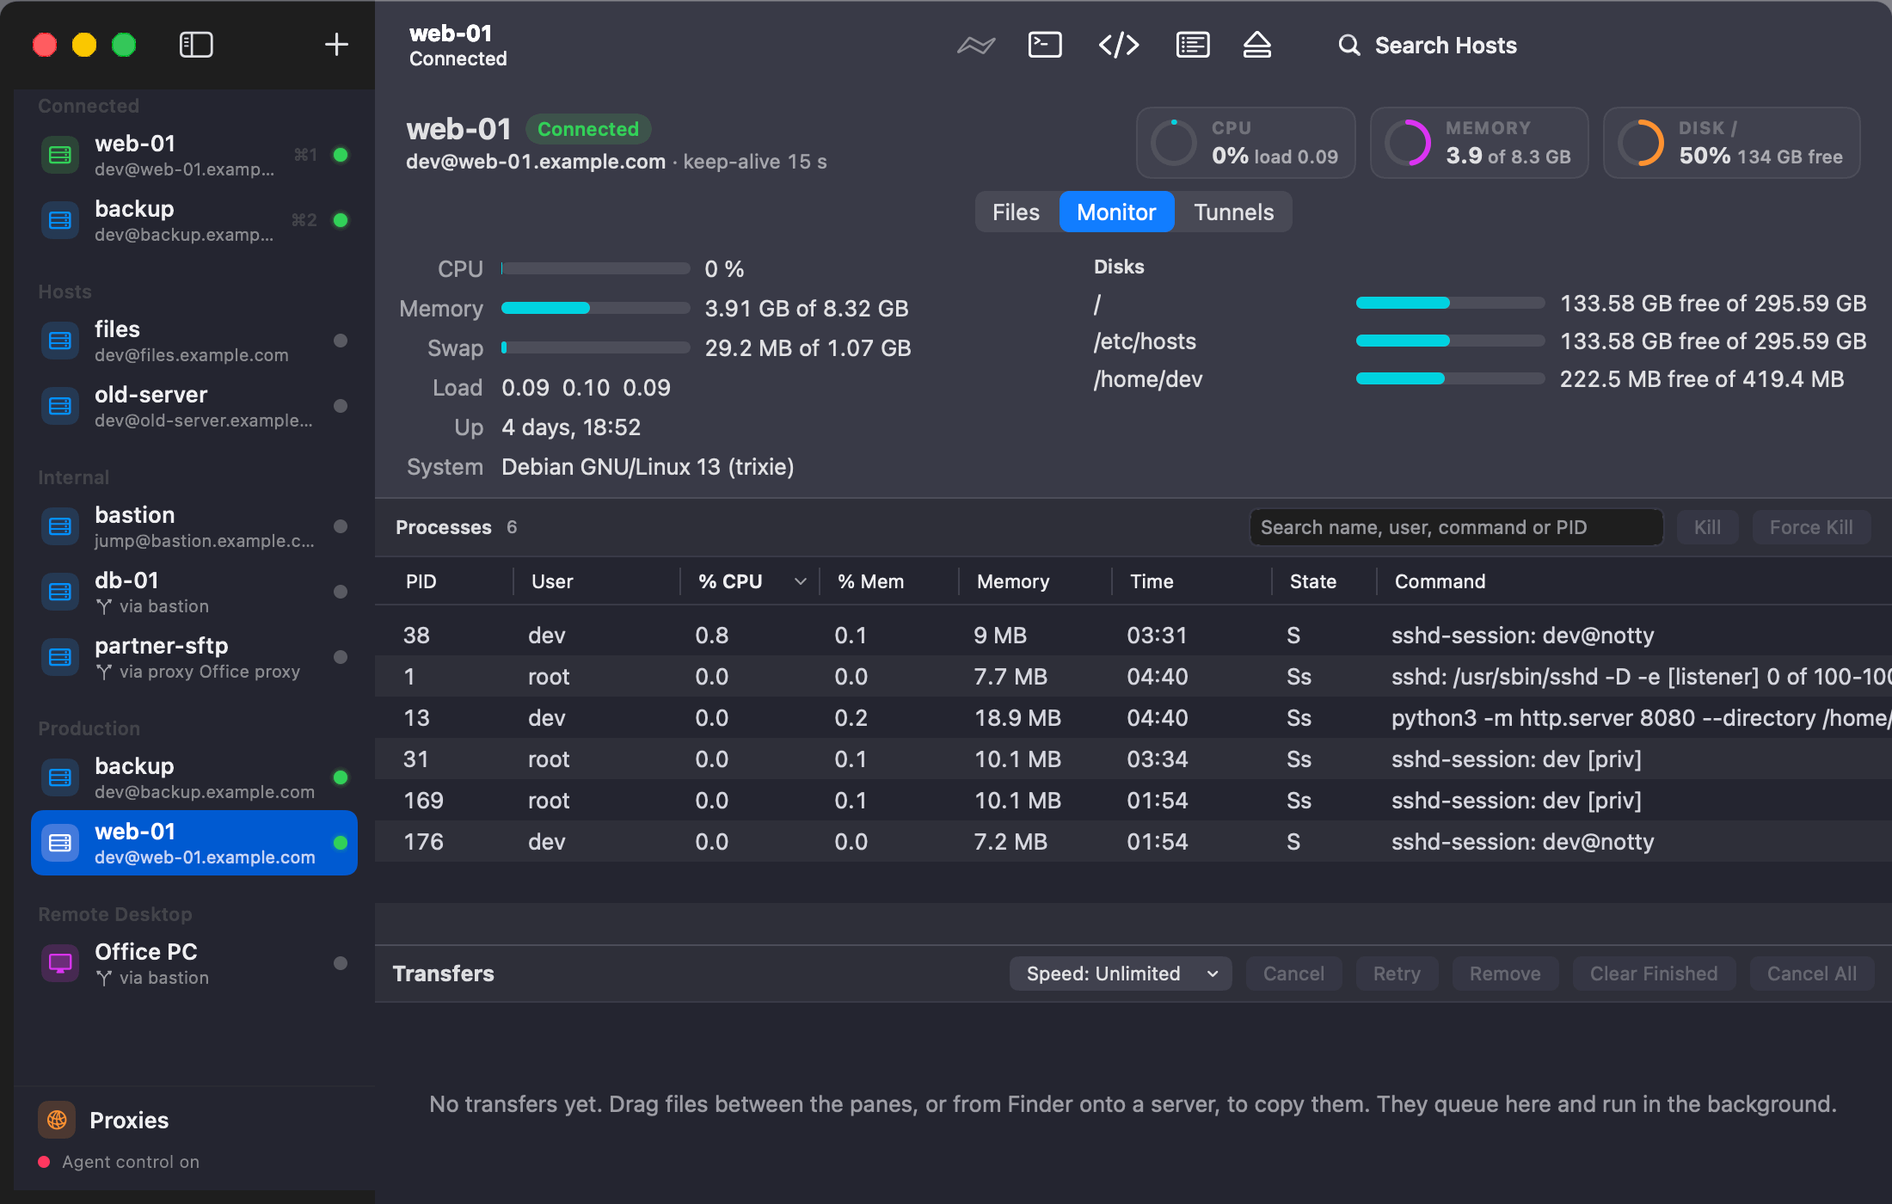
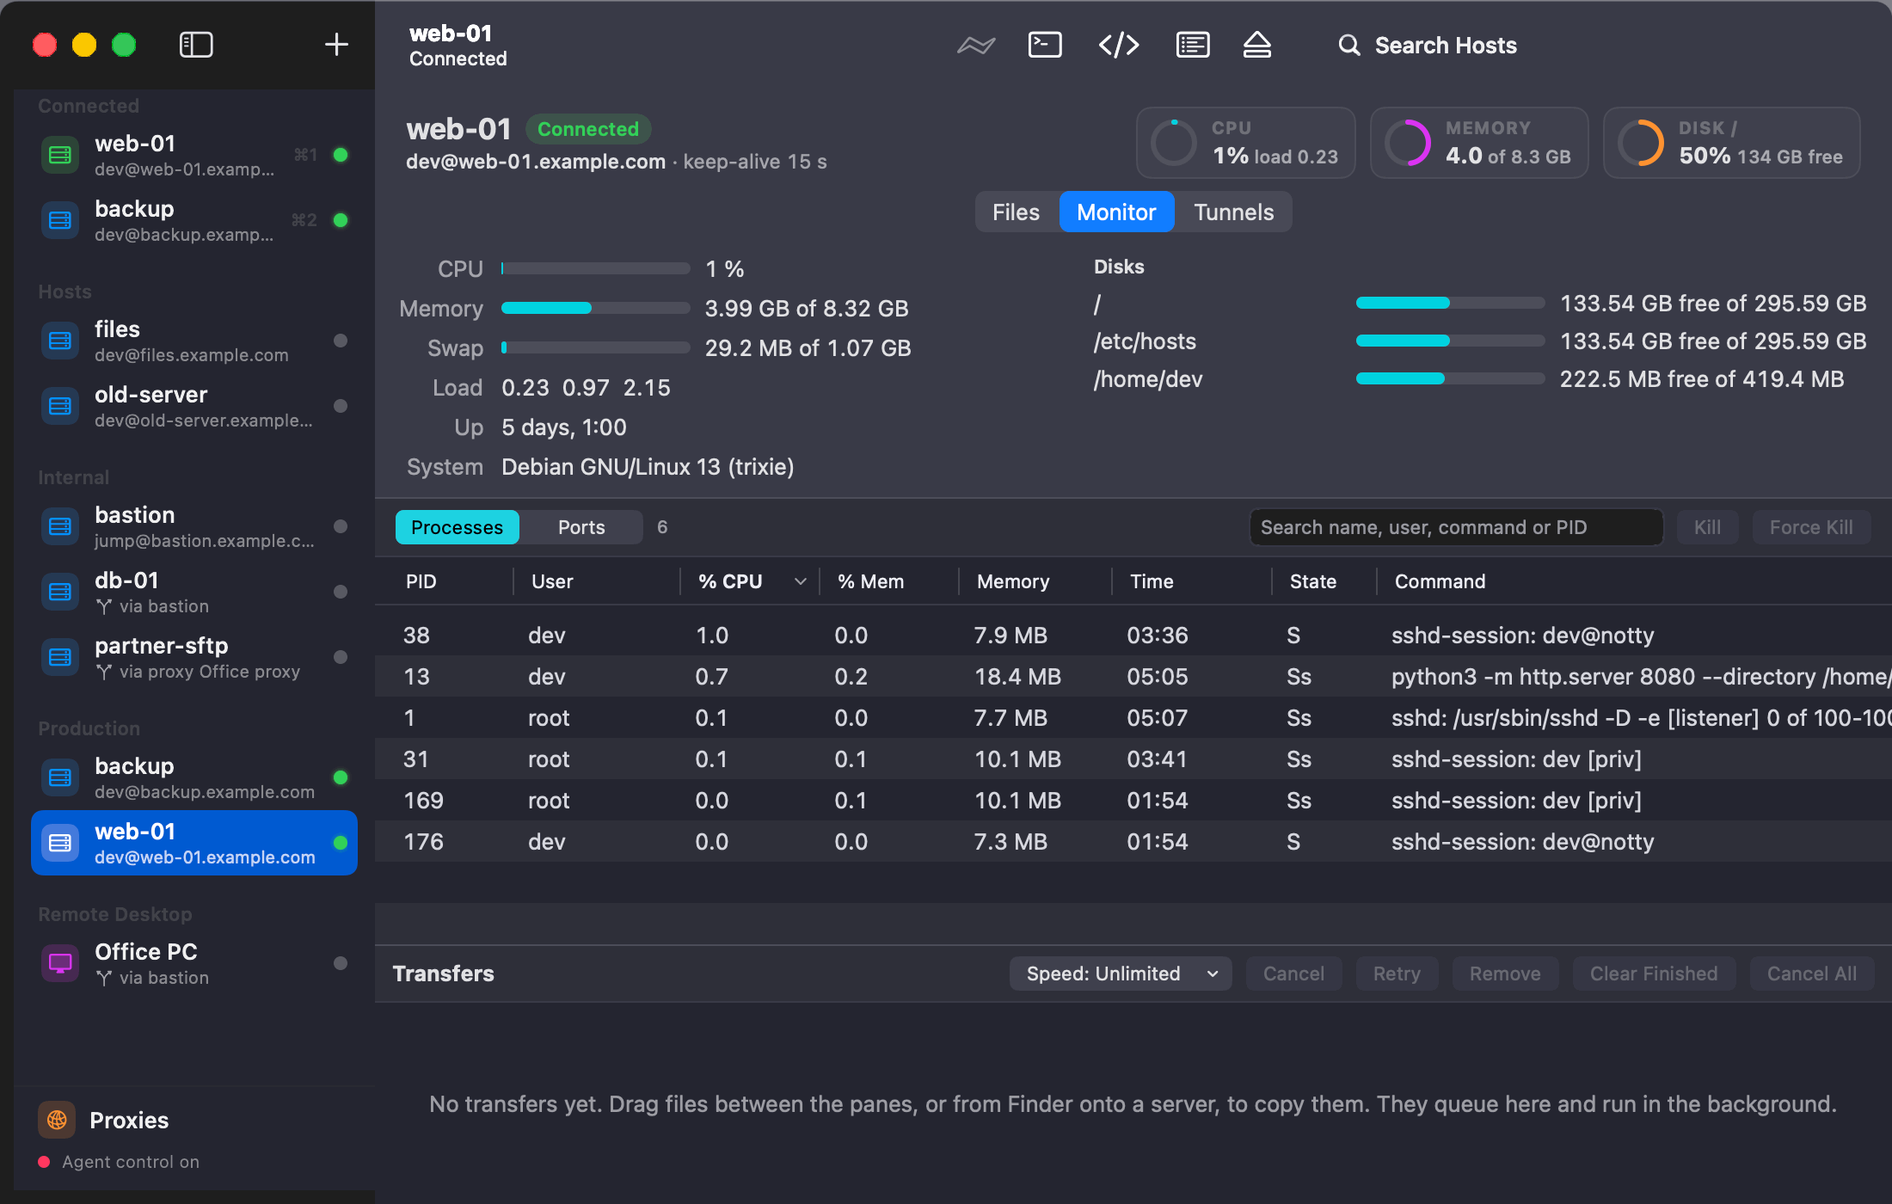
Fit Ports beside its connections, filter users on the server, add the docs pictures

diff --git a/Sources/AirSCP/MonitorTab.swift b/Sources/AirSCP/MonitorTab.swift
@@ -304,7 +304,7 @@ struct MonitorView: View {
             VStack(spacing: 10) {
                 if model.refreshing { ProgressView().controlSize(.small) }
                 Text(model.failure.map(MonitorText.explained) ?? (model.connected ? (model.refreshing ? "Reading the system…" : "")
-                     : "Not connected. Connect to see CPU, memory, disks and processes."))
+                     : "Not connected. Connect to see CPU, memory, disks, processes and ports."))
                     .foregroundColor(.secondary)
                     .multilineTextAlignment(.center)
             }
@@ -505,9 +505,10 @@ struct MonitorView: View {
     private func ports(_ ports: MonitorPorts?) -> some View {
         if let ports {
             // Side by side: the tab is wide and not tall.
-            HSplitView {
-                listening(ports).frame(minWidth: 380, maxWidth: .infinity, maxHeight: .infinity)
-                connections(ports).frame(minWidth: 240, idealWidth: 320, maxWidth: 480, maxHeight: .infinity)
+            HStack(spacing: 0) {
+                listening(ports)
+                Divider()
+                connections(ports).frame(width: 286)
             }
         } else {
             VStack(spacing: 10) {
@@ -533,32 +534,33 @@ struct MonitorView: View {
             } else {
                 Table(rows, selection: $model.portSelection, sortOrder: $model.portSortOrder) {
                     TableColumn("Protocol", value: \.protocolName) { Text($0.protocolName) }
-                        .width(min: 50, ideal: 60)
+                        .width(48)
                     TableColumn("Address", value: \.address) { port in
                         Text(port.address).lineLimit(1).truncationMode(.middle)
                             .help(port.address + " — " + MonitorText.reach(port.address))
                     }
-                    .width(min: 70, ideal: 110)
+                    .width(min: 60, ideal: 84)
                     TableColumn("Port", value: \.port) { Text(String($0.port)).monospacedDigit() }
-                        .width(min: 40, ideal: 56)
+                        .width(48)
                     TableColumn("PID", value: \.pidOrder) { port in
-                        Text(port.pids.isEmpty ? "—" : port.pids.map(String.init).joined(separator: ", "))
+                        Text(port.pids.first.map { String($0) + (port.pids.count > 1 ? " +\(port.pids.count - 1)" : "") } ?? "—")
                             .monospacedDigit().lineLimit(1)
-                            .help(port.pids.isEmpty ? MonitorText.unseen(ports) : "The processes that have this port open")
+                            .help(port.pids.isEmpty ? MonitorText.unseen(ports)
+                                  : "The processes that have this port open: " + port.pids.map(String.init).joined(separator: ", "))
                     }
-                    .width(min: 44, ideal: 70)
+                    .width(72)
                     TableColumn("Process", value: \.process) { port in
                         Text(port.process.isEmpty ? "—" : port.process).lineLimit(1)
                             .help(port.command.isEmpty ? MonitorText.unseen(ports) : port.command)
                     }
-                    .width(min: 60, ideal: 130)
+                    .width(min: 60, ideal: 80)
                     TableColumn("User", value: \.user) { Text($0.user).lineLimit(1) }
-                        .width(min: 44, ideal: 70)
+                        .width(min: 40, ideal: 56)
                     TableColumn("Connections", value: \.connectionOrder) { port in
                         Text(port.connections.map(String.init) ?? "—").monospacedDigit()
                             .help(port.isTCP ? "Open connections to this port" : "UDP keeps no connections")
                     }
-                    .width(min: 60, ideal: 80)
+                    .width(80)
                 }
                 .washed()
                 .accessibilityIdentifier("monitor.ports")
@@ -625,16 +627,16 @@ struct MonitorView: View {
                 .frame(maxWidth: .infinity, maxHeight: .infinity)
             } else {
                 Table(shown, selection: $connectionSelection, sortOrder: $connectionSort) {
-                    TableColumn("Remote address", value: \.address) { connection in
+                    TableColumn("From", value: \.address) { connection in
                         Text(connection.address).lineLimit(1).truncationMode(.middle).help(connection.address)
                     }
-                        .width(min: 90, ideal: 220)
-                    TableColumn("Remote port", value: \.port) { Text(String($0.port)).monospacedDigit() }
-                        .width(min: 60, ideal: 90)
+                    .width(min: 70, ideal: 100)
+                    TableColumn("Port", value: \.port) { Text(String($0.port)).monospacedDigit() }
+                        .width(56)
                     TableColumn("State", value: \.state) { connection in
                         Text(connection.state).help(MonitorText.explain(connection.state))
                     }
-                    .width(min: 70, ideal: 120)
+                    .width(88)
                 }
                 .washed()
                 .accessibilityIdentifier("monitor.connections")
@@ -904,7 +906,7 @@ enum MonitorText {
         return "Only this address of the server"
     }
 
-    static let othersHidden = "Some ports belong to other users' processes, which this account can't see: connect as root to see them."
+    static let othersHidden = "Other users' processes aren't shown to this account: connect as root to see them."
 
     /// Why a port's process isn't known.
     static func unseen(_ ports: MonitorPorts?) -> String {

diff --git a/Sources/AirSCPCore/Monitor.swift b/Sources/AirSCPCore/Monitor.swift
@@ -246,20 +246,21 @@ public final class Monitor {
     /// /proc/net tables there are, "L <table> <address:port> <uid> <inode>" for each listening TCP socket and bound UDP
     /// one, and "N <table> <port> <count>" for each such TCP port with open connections (not those in TIME-WAIT, which
     /// are closed already); "none" without the tables. "@@owners": "/proc/<pid>/fd: socket:[<inode>]" for each process
-    /// with one of those sockets open (an account sees its own processes, root every one). "@@users": /etc/passwd's
-    /// "name:uid". "@@connections" (`connectionsOf`, a TCP port): its first `connectionLimit` connections, "<local>
-    /// <remote> <state>". Addresses and ports in hex, as the kernel prints them.
+    /// with one of those sockets open (an account sees its own processes, root every one). "@@users": "name:uid" from
+    /// /etc/passwd for those sockets' owners. "@@connections" (`connectionsOf`, a TCP port): its first `connectionLimit`
+    /// connections, "<local> <remote> <state>". Addresses and ports in hex, as the kernel prints them.
     static func portsScript(connectionsOf port: MonitorPort?) -> String {
         // From each table's header line on, `t` is its name: "tcp6".
         let listening = #"FNR == 1 {t = FILENAME; sub(".*/", "", t); next} {split($2, a, ":"); k = t " " a[2]} "#
             + #"t ~ /tcp/ && $4 == "0A" || t ~ /udp/ && $4 == "07" {print "L", t, $2, $8, $10; s[k] = 1; next} "#
             + #"t ~ /udp/ || $4 == "06" || $4 == "07" {next} {c[k]++} END {for (k in c) if (k in s) print "N", k, c[k]}"#
-        // The L lines first, then ls's: "/proc/<pid>/fd:" before each process's files.
+        // The L lines first, then ls's ("/proc/<pid>/fd:" before each process's files), or /etc/passwd's.
         let owners = #"$1 == "L" {k["socket:[" $5 "]"] = 1; next} /^.proc/ {p = $1; next} ($NF in k) {print p, $NF}"#
+        let users = #"$1 == "L" {u[$4] = 1; next} {split($0, f, ":"); if (f[3] in u) print f[1] ":" f[3]}"#
         var script = "echo @@uid; id -u; echo @@ports; f=; for n in tcp tcp6 udp udp6; do [ -r /proc/net/$n ] && "
             + "f=\"$f /proc/net/$n\"; done; [ -n \"$f\" ] || echo none; l=; [ -n \"$f\" ] && l=$(awk '\(listening)' $f); "
             + "echo \"$l\"; echo @@owners; [ -n \"$l\" ] && { echo \"$l\"; ls -l /proc/[0-9]*/fd 2>/dev/null; } "
-            + "| awk '\(owners)'; echo @@users; cut -d: -f1,3 /etc/passwd; "
+            + "| awk '\(owners)'; echo @@users; [ -n \"$l\" ] && { echo \"$l\"; cat /etc/passwd; } | awk '\(users)'; "
         if let port, port.isTCP {
             script += "echo @@connections; awk -v p=\(String(format: "%04X", port.port)) "
                 + #"'FNR == 1 || $4 == "0A" || $4 == "06" || $4 == "07" {next} {split($2, a, ":"); "#
@@ -375,7 +376,8 @@ public final class Monitor {
             owners[parts[1].dropFirst(8).dropLast(), default: []].append(pid)
         }
         var counts: [String: Int] = [:]
-        var rows: [MonitorPort] = [], uids: [MonitorPort.ID: Int] = [:]
+        // Each row's place in `rows`, and its socket's uid.
+        var rows: [MonitorPort] = [], places: [MonitorPort.ID: (index: Int, uid: Int)] = [:]
         for line in lines {
             let parts = line.split(separator: " ")
             if parts.count == 4, parts[0] == "N", let port = Int(parts[2], radix: 16), let count = Int(parts[3]) {
@@ -385,12 +387,12 @@ public final class Monitor {
                   let uid = Int(parts[3]) else { continue }
             let pids = owners[parts[4]] ?? []
             var row = MonitorPort(table: String(parts[1]), address: address, port: port, user: users[uid] ?? String(uid))
-            if let index = rows.firstIndex(where: { $0.id == row.id }) {
-                rows[index].pids += pids
+            if let place = places[row.id] {
+                rows[place.index].pids += pids
             } else {
                 row.pids = pids
+                places[row.id] = (rows.count, uid)
                 rows.append(row)
-                uids[row.id] = uid
             }
         }
         let names = Dictionary(processes.map { ($0.pid, $0) }) { first, _ in first }
@@ -403,7 +405,7 @@ public final class Monitor {
         }
         ports.listening = rows.sorted { ($0.port, $0.table, $0.address) < ($1.port, $1.table, $1.address) }
         let me = text("uid").first.flatMap { Int($0) }
-        ports.othersHidden = me != 0 && rows.contains { $0.pids.isEmpty && uids[$0.id] != me }
+        ports.othersHidden = me != 0 && rows.contains { $0.pids.isEmpty && places[$0.id]?.uid != me }
         for line in text("connections") {
             let parts = line.split(separator: " ")
             guard parts.count == 3, let (address, port) = endpoint(parts[1]) else { continue }

diff --git a/Tests/AirSCPTests/MonitorTests.swift b/Tests/AirSCPTests/MonitorTests.swift
@@ -829,3 +829,19 @@ private func row(_ ports: MonitorPorts, _ table: String, _ port: Int) -> Monitor
     // Not asked for: none at all.
     #expect(Monitor.parse("Linux 6.12\n@@df\n").snapshot.ports == nil)
 }
+
+/// Plan S: a busy server's thousands of sockets must not make the Ports view slow. 10 000 listening sockets, each with
+/// its process, and 2 000 connections: well under a second in the tests' debug build.
+@Test func tenThousandPortsParseQuickly() {
+    var lines = ["Linux 6.12", "@@uid", "0", "@@ports"]
+    lines += (1...10_000).map { "L udp 00000000:\(String(format: "%04X", $0)) 0 \(100_000 + $0)" }
+    lines.append("@@owners")
+    lines += (1...10_000).map { "/proc/\($0 % 50 + 1)/fd: socket:[\(100_000 + $0)]" }
+    lines += ["@@users", "root:0", "@@connections"]
+    lines += (0..<2000).map { "00000000:0050 0500000A:\(String(format: "%04X", 1024 + $0)) 01" }
+    let output = lines.joined(separator: "\n") + "\n"
+    var ports: MonitorPorts?
+    let elapsed = ContinuousClock().measure { ports = Monitor.parse(output).snapshot.ports }
+    #expect(ports?.listening.count == 10_000 && ports?.connections.count == 2000 && ports?.listening.last?.pids == [1])
+    #expect(elapsed < .milliseconds(2000), "parsing 10 000 ports took \(elapsed)")
+}

diff --git a/Sources/AirSCP/Help.swift b/Sources/AirSCP/Help.swift
@@ -383,7 +383,7 @@ enum AirSCPTips {
         Commands and monitoring
         • Host ▸ Run Command… runs one command and shows its output; Run in Terminal for sudo and editors.
         • Window ▸ Snippets keeps commands you run often, to run on any host.
-        • The Monitor tab shows CPU, memory, disks and processes on Linux servers; Kill asks first.
+        • The Monitor tab shows CPU, memory, disks, processes and ports on Linux servers; Kill asks first.
         • The Tunnels tab opens ports through the connection: a database behind the server, an app on your Mac.
         • View ▸ Show Command Log shows every command AirSCP ran, as a line you can copy and run yourself.
 

diff --git a/Sources/AirSCP/HostWorkspace.swift b/Sources/AirSCP/HostWorkspace.swift
@@ -283,7 +283,7 @@ final class HostWorkspace: NSViewController {
             let item = NSTabViewItem(viewController: controller)
             item.label = label
             item.toolTip = ["Files": "Browse and copy files between this Mac and the host",
-                            "Monitor": "CPU, memory, disks and processes of the host (Linux)",
+                            "Monitor": "CPU, memory, disks, processes and ports of the host (Linux)",
                             "Tunnels": "Port forwards through this connection"][label]
             return item
         }

diff --git a/docs/monitor.md b/docs/monitor.md
@@ -5,7 +5,8 @@ nav_order: 9
 
 # Watch a Linux server
 
-The **Monitor** tab shows what a Linux server is doing: CPU, memory, disks and processes. You can also stop a process.
+The **Monitor** tab shows what a Linux server is doing: CPU, memory, disks, processes and the ports it listens on. You can
+also stop a process.
 
 ## Steps
 
@@ -36,6 +37,25 @@ there for servers that aren't Linux.
 
 {% include shot.html name="monitor-kill" alt="The question: Kill python3? The process is asked to quit" %}
 
+## See which ports a server listens on
+
+1. In the **Monitor** tab, click **Ports** above the list of processes.
+2. Read the list: each port the server listens on, with the program that listens and how many connections it has.
+3. Click a port to see who is connected to it, and how many connections come from each address.
+
+{% include shot.html name="monitor-ports" alt="Ports: the ports web-01 listens on, and the connections to its website on port 8080" %}
+
+| Part | What it shows |
+|---|---|
+| **Protocol** | TCP or UDP. |
+| **Address** | Where the port can be reached. 0.0.0.0 and :: mean every address of the server (open to the network); 127.0.0.1 and ::1 mean only the server itself. |
+| **PID** and **Process** | The program that listens (+1: one more process shares the port). A dash means another user's program: connect as root to see it. |
+| **User** | The account the port belongs to. |
+| **Connections** | How many connections are open to it. UDP has no connections. |
+
+To stop the program that has a port, select the port and click **Kill** or **Force Kill**. **Show Process** shows the
+program in the list of processes.
+
 ## Tips
 
 - Click a column heading to sort the processes, for example by CPU.
@@ -43,6 +63,10 @@ there for servers that aren't Linux.
   Terminal**, where sudo can ask for your password (on servers that have sudo).
 - The list of processes isn't read while the tab isn't shown. The figures at the top of the window still refresh
   every 10 seconds.
+- Reading the ports takes some work on the server, so AirSCP reads them only while **Ports** is shown: at once, then
+  every 5 seconds. Click **Pause** to keep the list as it is, and **Refresh** to read it again now.
+- Type a port, program or address in the search field above the ports to see only those.
+- Right-click a port, or a connection, to copy its address.
 
 ## If something goes wrong
 

diff --git a/docs/dev/feature-map.md b/docs/dev/feature-map.md
@@ -36,6 +36,7 @@ Files are under `Sources/` (`Core/` = `AirSCPCore`, `App/` = `AirSCP`); tests un
 | Synchronize [S.1]; its Leave out and unticking items (1.1.0) | App/Synchronize, BrowserContent; agent set/select/snapshot in App/AgentServer, AgentSnapshot | SyncFindTests (incl. `synchronizeLeavesOutWhatMatchesAndDoesOnlyTheTickedItems`); FeatureRoundTests (a level per command, 20+ files as one stream); AgentTests `agentLeavesOutAndUnticksWhatToSynchronize`; lab (GNU, BusyBox, sftp; `aCompareOf5000FilesStaysFast`, `untickedItemsAreNeitherCopiedNorDeleted`) |
 | Transfers panel, Dock badge, App Nap held off [C] | App/TransfersPanel, AppModel, AppDelegate | WorkspaceTests; ShellTests; FeatureRoundTests `transfersKeepAppNapAway` |
 | Monitor tab, Kill, sudo in Terminal [I] | Core/Monitor; App/MonitorTab | MonitorTests (real Debian/BusyBox captures); lab `monitorOnDebianAndBusyBoxWithKill` |
+| Monitor ▸ Ports: listening sockets, their processes and users, the picked port's connections; read only while shown (2026-10-06) | Core/Monitor (`portsScript`: /proc/net tables, `ls -l` of /proc/<pid>/fd); App/MonitorTab, AgentSnapshot (`ports`), AgentServer (`select pane=ports`) | MonitorTests `portsOf…` (Debian/BusyBox captures, as a user and as root); FeatureRoundAppTests `portsAreReadOnlyWhileTheyAreShown` (every command sent); HelpTests; lab `portsOnDebianAndBusyBox`, `AgentLabTests` |
 | Remote Desktop: entries, desktop, keyboard/mouse, certificates, login, through SSH [M, R] | CRDP/*; Core/RDP; App/RDPWorkspace, RDPDesktopView, RDPEditor | RDPTests (unit + VM); RDPEditorTests |
 | Remote Desktop file transfer: shared folder, clipboard files both ways [S] | CRDP/rdp_clipboard.c, rdp_shim.c; Core/RDP; App/RDPWorkspace | VM `rdpKeyboardClipboardAndFilesBothWays`, `rdpClipboardSwitchedOffSharesNothing`; AgentTests (VM) |
 | Light and dark, appearance setting [O] | App/SettingsWindow, AppDelegate | ShellTests `appearanceSettingSetsTheAppsAppearance` |

diff --git a/docs/whats-new.md b/docs/whats-new.md
@@ -10,6 +10,9 @@ nav_order: 18
 - **AI agents click the right spot on a Windows desktop**: they click in the pixels of the desktop picture AirSCP
   gives them, see a close-up of each click, and can press the Windows key (<kbd>⊞</kbd> <kbd>E</kbd>,
   <kbd>⊞</kbd> <kbd>R</kbd>). Their guide tells them to use the keyboard first.
+- **See which ports a server listens on**: **Monitor ▸ Ports** lists them with the program, its user and how many
+  connections each has, and shows who is connected to the one you pick, from which addresses. Kill the program, or
+  show it among the processes. AirSCP reads the ports only while you look at them.
 - **Tunnels say where they lead**: **Add Tunnel…** reads as a sentence (open port 8080 on this Mac, through your
   server, to the server itself, port 80), and the whole route shows as you type and in the list. The second port is
   the same as the first until you change it.

diff --git a/README.md b/README.md
@@ -23,7 +23,7 @@
 - **Synchronize** two folders with a preview first; **Find Files** on a server by name or pattern.
 - **Every way in**: keys, passwords, 2FA codes, jump hosts, HTTP proxies. Your `~/.ssh/config` just works.
 - **Remote Desktop for Windows** built in, with the clipboard and files both ways.
-- **Monitor** a Linux server (CPU, memory, disks, processes), open **tunnels**, run commands and snippets.
+- **Monitor** a Linux server (CPU, memory, disks, processes, ports), open **tunnels**, run commands and snippets.
 - **Keys**: make any key type, put it on a server, import and export PuTTY `.ppk`.
 - **AI agents can drive it** over MCP when you allow it, and they never see your passwords.
 - Uses the `ssh`, `scp` and `sftp` built into macOS, shows every command it runs. No account. macOS 13.1+.

diff --git a/docs/getting-started/the-window.md b/docs/getting-started/the-window.md
@@ -34,7 +34,7 @@ hosts and proxies, and its keep-alive. For a connected Linux server, three small
 ## The tabs
 
 - **Files**: two panes. The left pane is this Mac (or another server), the right pane is the selected server.
-- **Monitor**: CPU, memory, disks and processes of a Linux server. See [Monitor](../monitor.md).
+- **Monitor**: CPU, memory, disks, processes and ports of a Linux server. See [Monitor](../monitor.md).
 - **Tunnels**: port forwards through the connection. See [Tunnels](../tunnels.md).
 
 ## The Transfers list (bottom)
